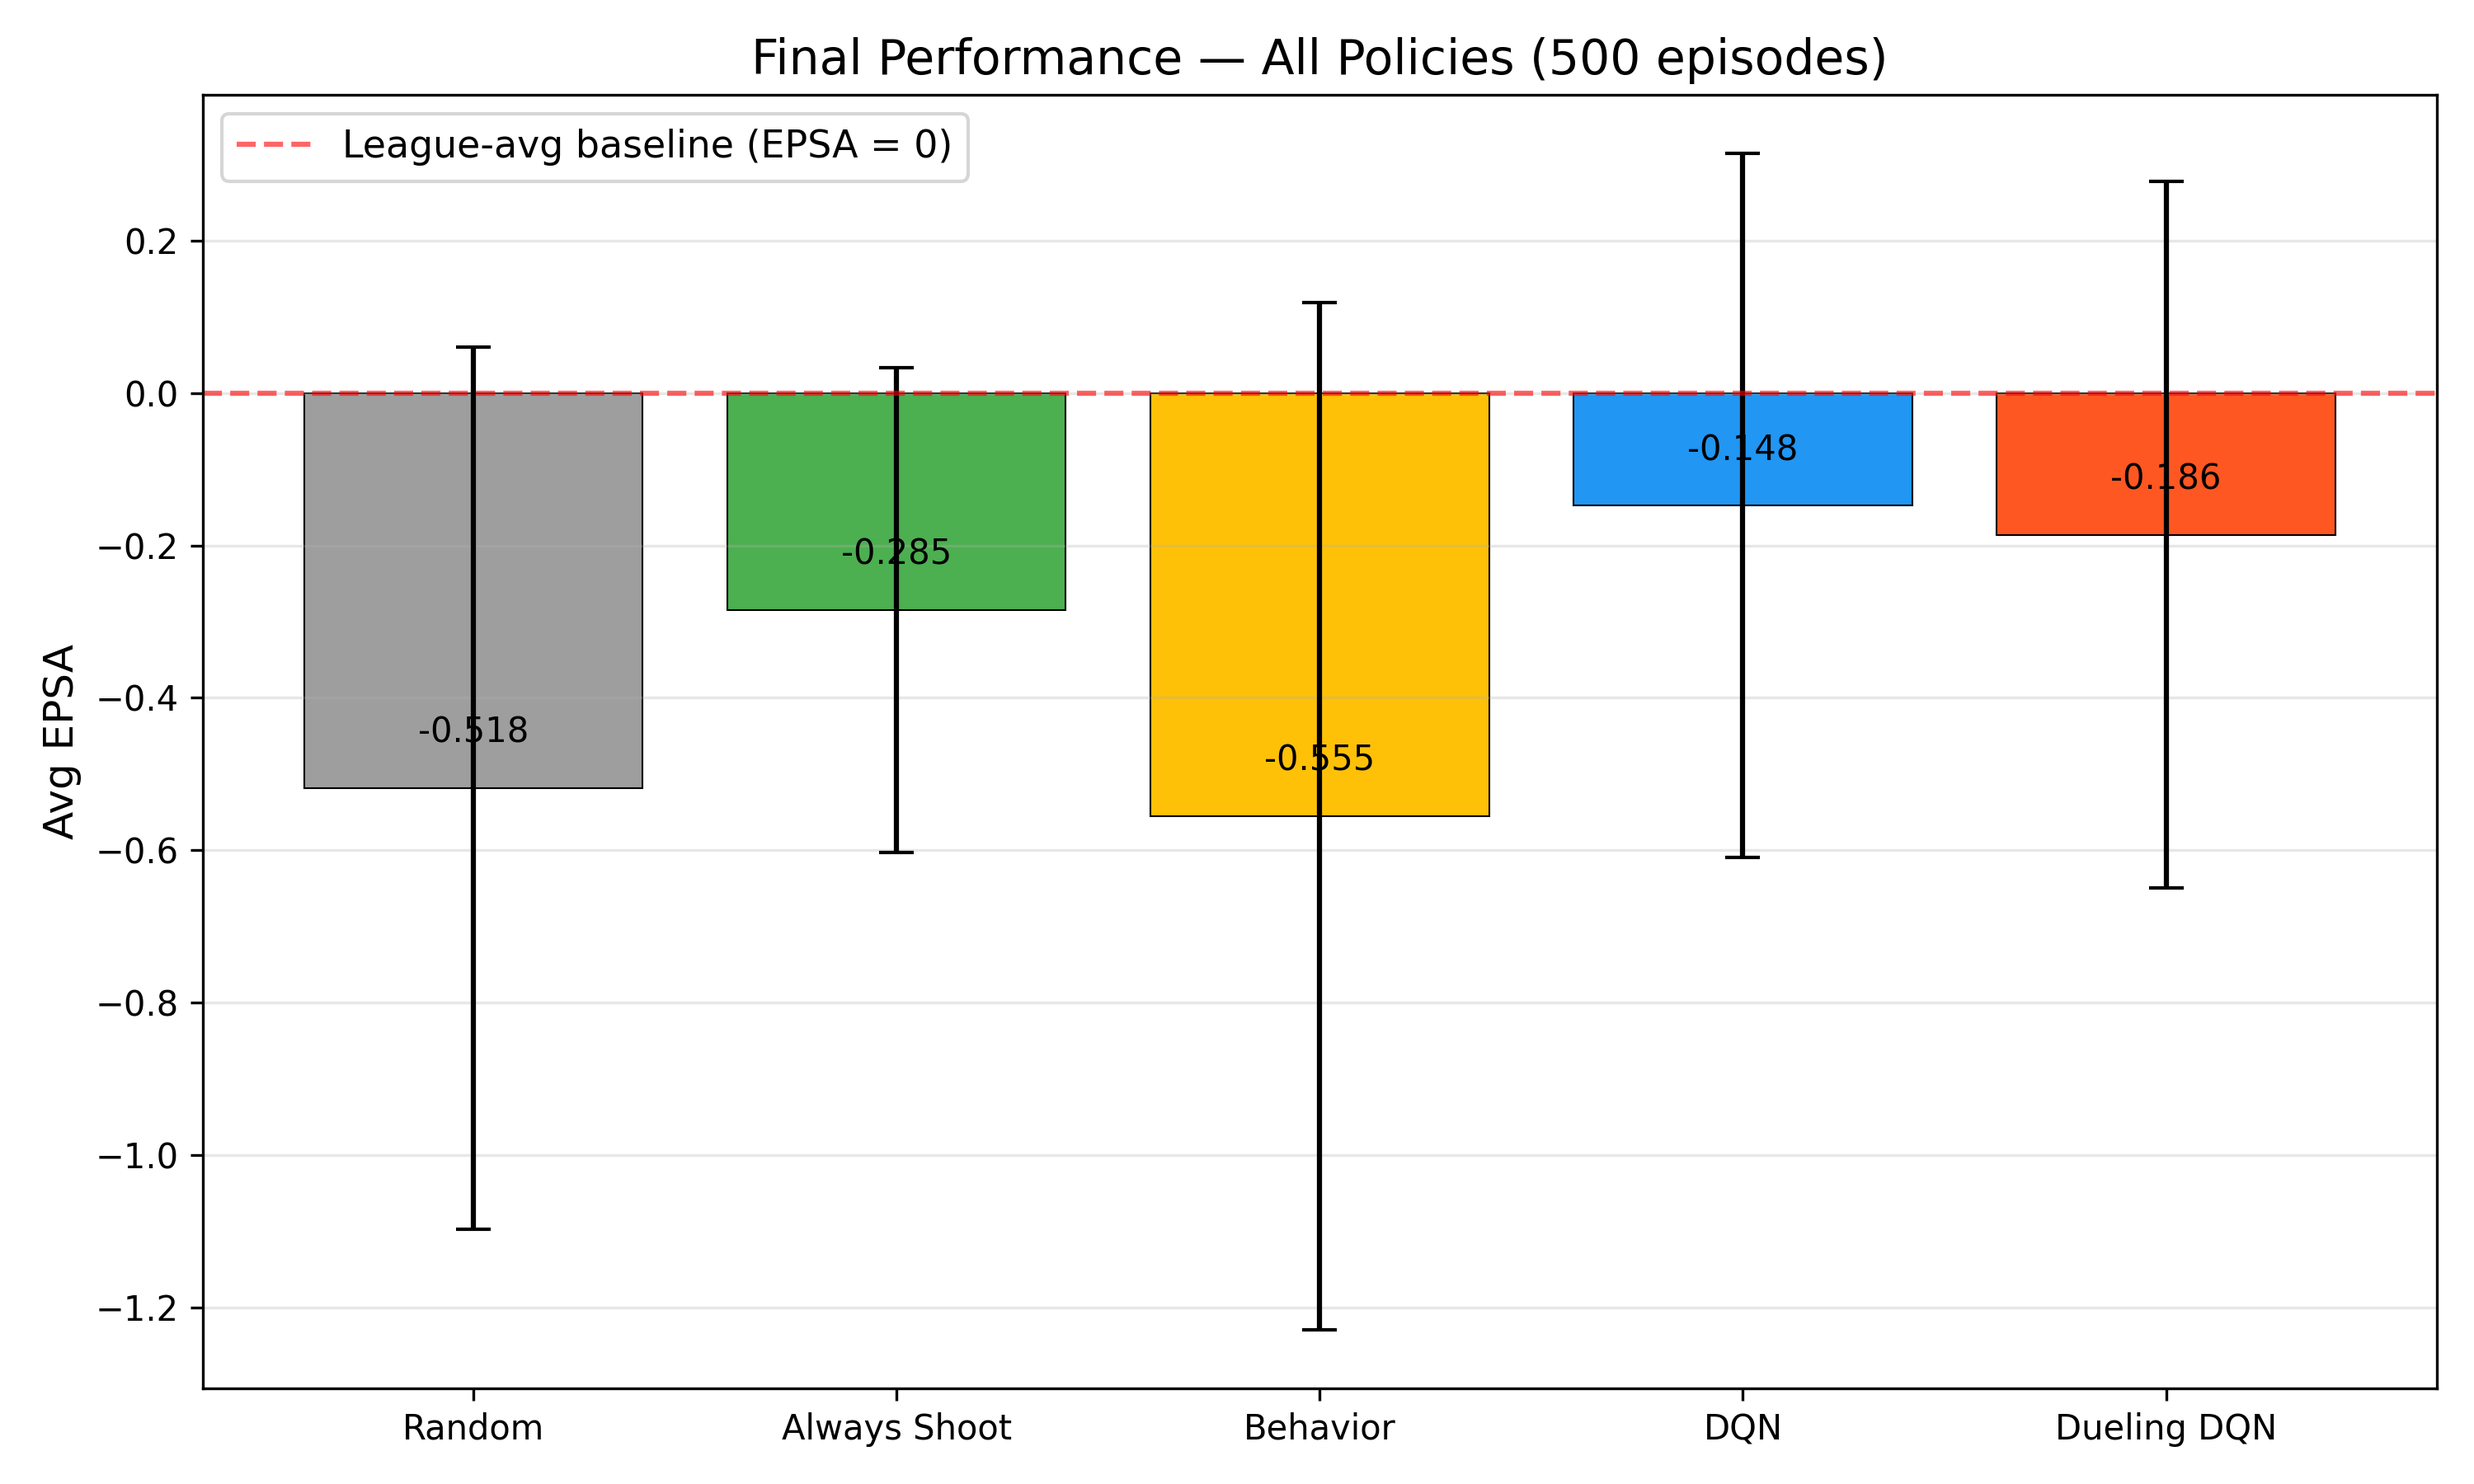
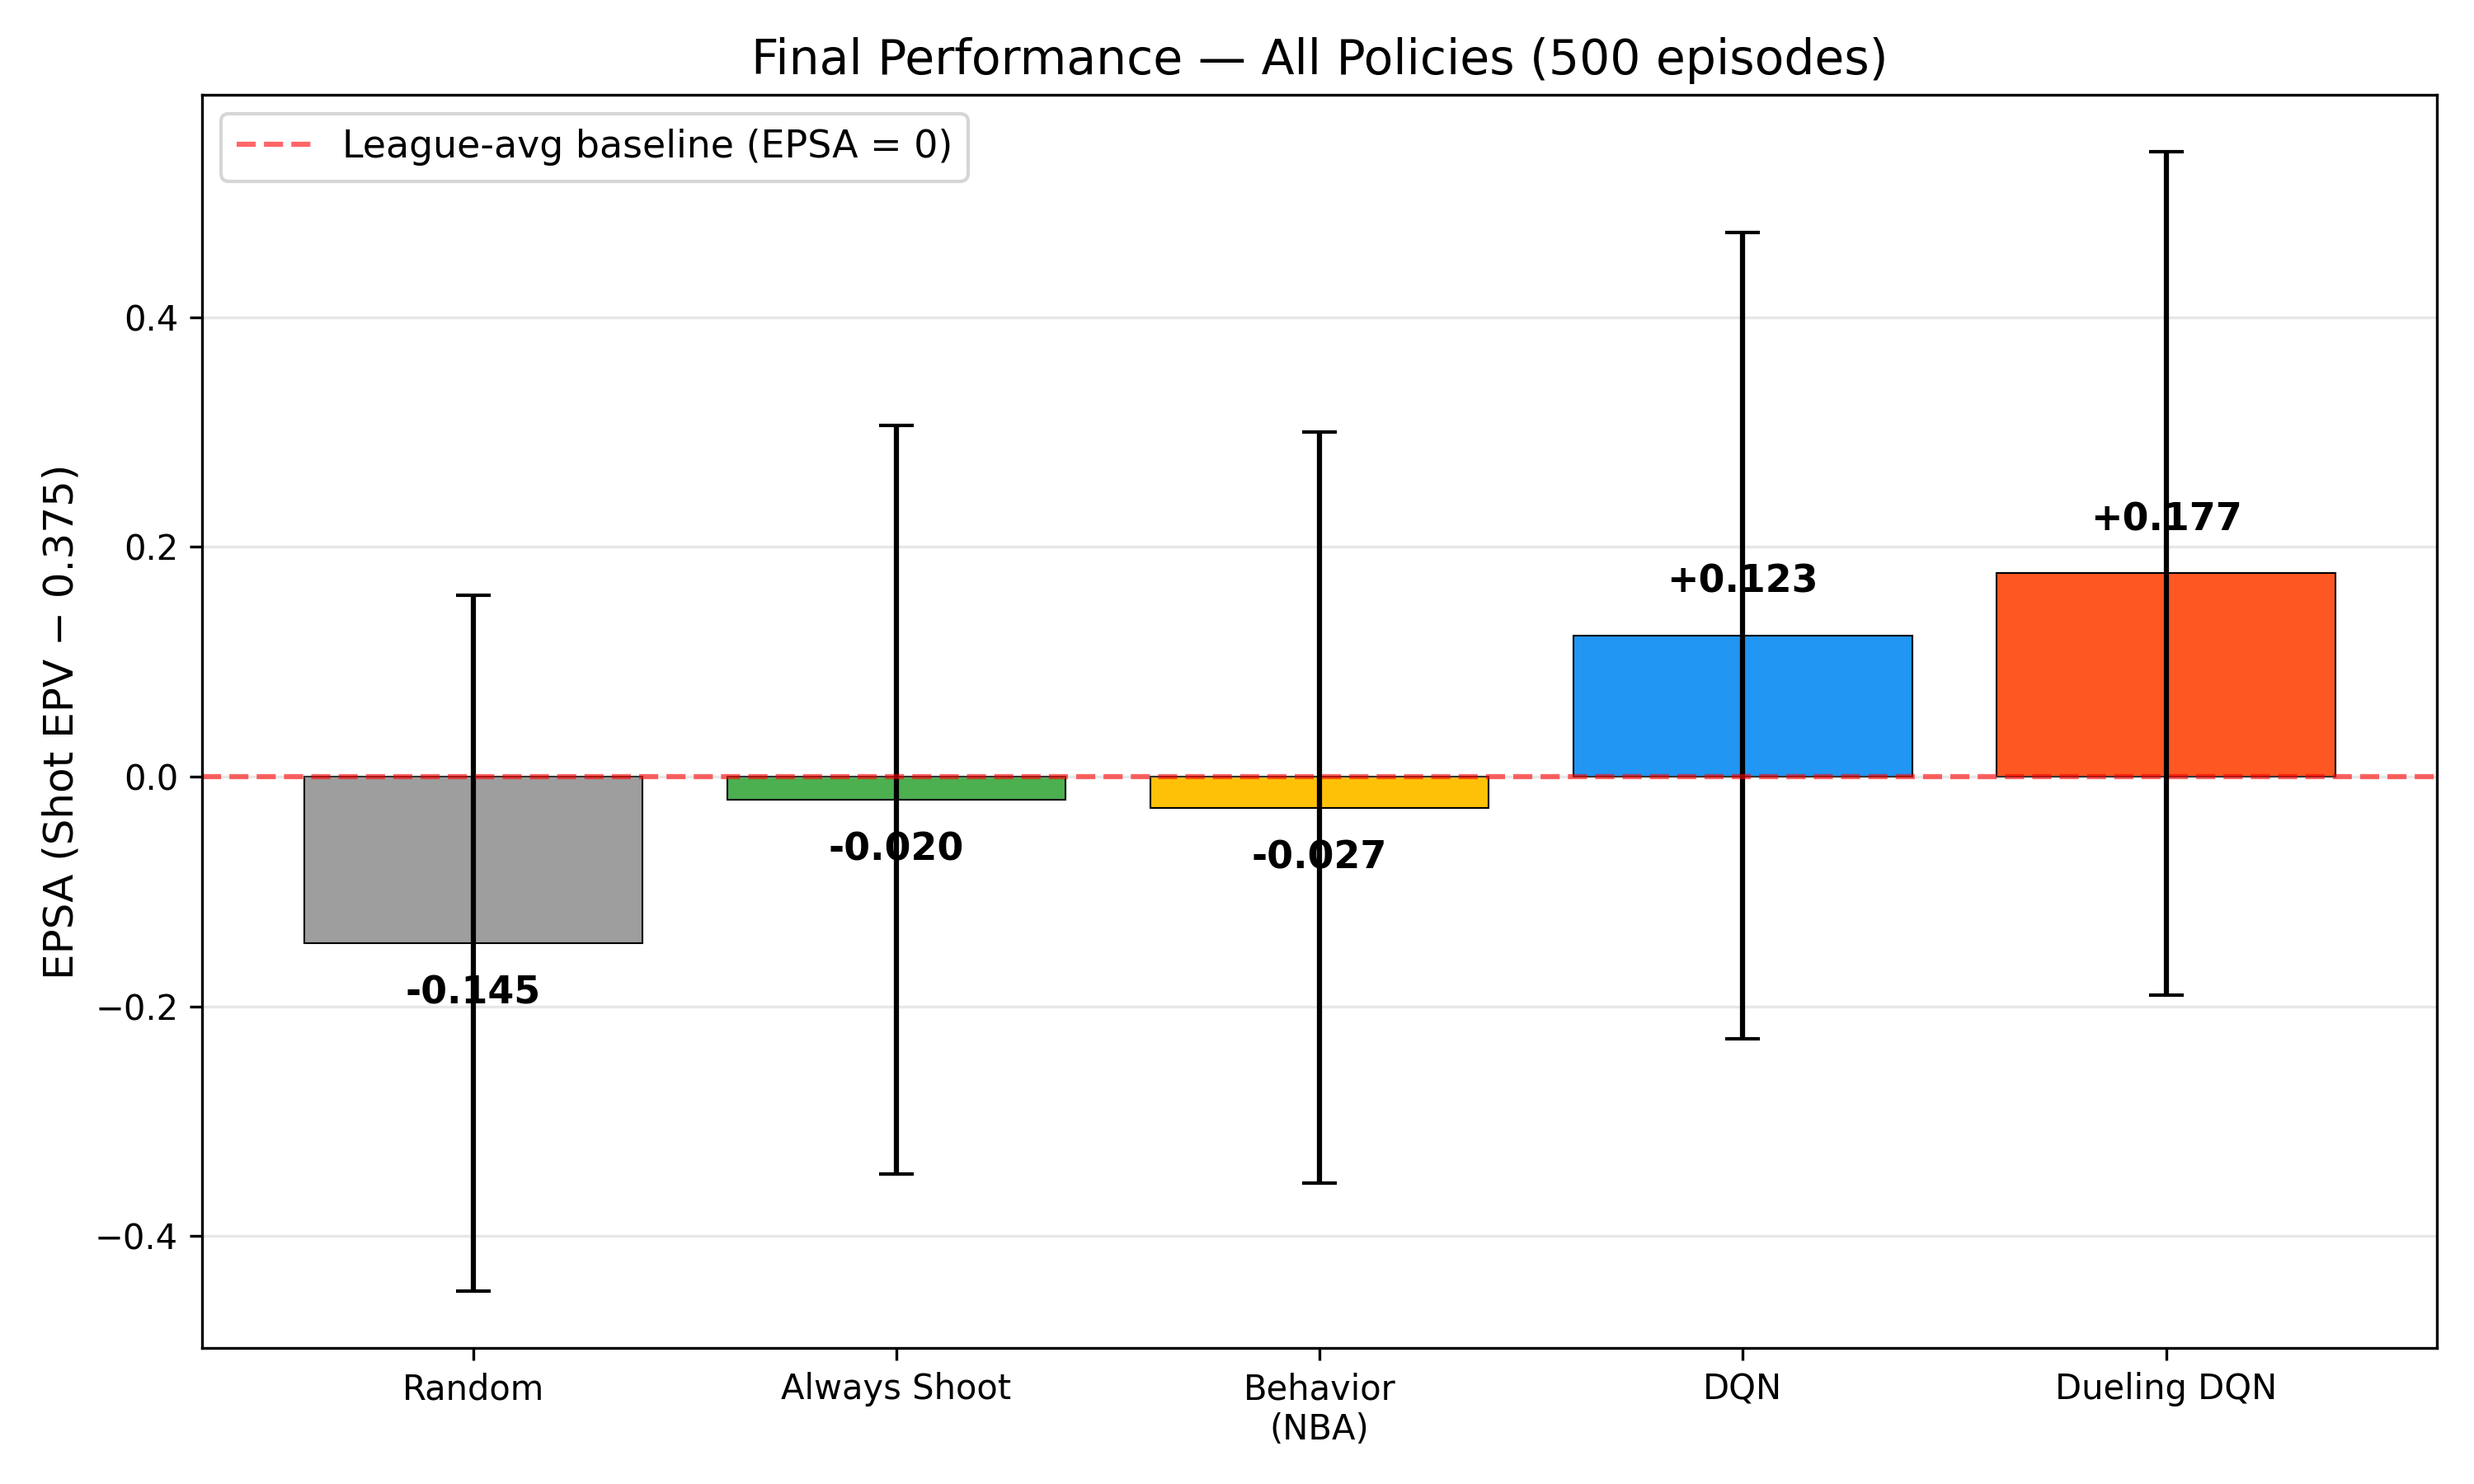
fix: align all EPSA numbers with report evaluation metric
Update viz labels, README, ARCHITECTURE, and RESULTS_SUMMARY to use
consistent EPSA numbers from 500-episode evaluation (Shot EPV - 0.375):
Dueling +0.177, DQN +0.123. Regenerate final_performance bar chart.

diff --git a/app.py b/app.py
@@ -771,23 +771,23 @@ app.add_middleware(GZipMiddleware, minimum_size=1000)
 MODELS = {
     # --- Top 3 PBRS models (best results) ---
     "pbrs_lr1e4": {
-        "label": "★ BEST: PBRS LR=1e-4 (EPSA +0.239, 58% pass, 84% shoot)",
+        "label": "★ BEST: PBRS LR=1e-4 (EPSA +0.177, 67% pass, 33% shoot)",
         "type": "dueling",
         "weights": "results_v9/pbrs_lr1e4/dueling_dqn_weights.pth",
     },
     "pbrs_smallnet": {
-        "label": "PBRS Small Net [256,128] (EPSA +0.236, 58% pass, 88% shoot)",
+        "label": "PBRS Small Net [256,128] (Dueling, 2nd best)",
         "type": "dueling",
         "weights": "results_v9/pbrs_smallnet/dueling_dqn_weights.pth",
     },
     "pbrs_gamma099": {
-        "label": "PBRS gamma=0.99 (EPSA +0.236, 65% pass, 86% shoot)",
+        "label": "PBRS gamma=0.99 (Dueling, 3rd best)",
         "type": "dueling",
         "weights": "results_v9/pbrs_gamma099/dueling_dqn_weights.pth",
     },
     # --- DQN comparison ---
     "pbrs_dqn_nodist": {
-        "label": "PBRS DQN (EPSA +0.228, 58% pass, 86% shoot)",
+        "label": "PBRS DQN (EPSA +0.123, 65% pass, 35% shoot)",
         "type": "dqn",
         "weights": "results_v9/pbrs_dqn_nodist/dqn_weights.pth",
     },

diff --git a/ARCHITECTURE.md b/ARCHITECTURE.md
@@ -8,7 +8,7 @@ Guide for understanding and continuing development.
 
 An offline RL system that replays real NBA possessions from SportVU 2015-16 tracking data. Two agents (DQN, Dueling DQN) learn when to shoot and who to pass to using a 78-dimensional state vector with player ID embeddings. Rewards use Potential-Based Reward Shaping (PBRS) with EPV as the potential function. CQL is disabled (alpha=0.0) because it crushes terminal shoot Q-values.
 
-Best model: **Dueling DQN, EPSA +0.239** (`results_v9/pbrs_lr1e4/dueling_dqn_weights.pth`)
+Best model: **Dueling DQN, EPSA +0.177** (`results_v9/pbrs_lr1e4/dueling_dqn_weights.pth`)
 
 ---
 
@@ -208,8 +208,8 @@ processed_possessions.pkl (116,928 possessions, 78 features each)
             ├── DQN agent ←→ env.step() loop (100K episodes)
             └── Dueling DQN agent ←→ env.step() loop
                     ↓
-                    results_v9/pbrs_lr1e4/ (best Dueling, EPSA +0.239)
-                    results_v9/pbrs_dqn_nodist/ (best DQN, EPSA +0.228)
+                    results_v9/pbrs_lr1e4/ (best Dueling, EPSA +0.177)
+                    results_v9/pbrs_dqn_nodist/ (best DQN, EPSA +0.123)
                             ↓ (evaluate_and_compare.py)
                             comparison_plots/ (7 plots)
 ```
@@ -273,8 +273,8 @@ Players with <15 3PT attempts get 0% for zones 4-6. Bayesian shrinkage wrongly s
 
 | Model | EPSA | Shot EPV | Steps | Pass% | Shoot% |
 |---|---|---|---|---|---|
-| **Dueling PBRS LR=1e-4** | **+0.239** | **0.614** | 2.32 | 58% | 84% |
-| DQN PBRS | +0.228 | 0.603 | 2.41 | 58% | 86% |
+| **Dueling PBRS LR=1e-4** | **+0.177** | **0.552** | 2.55 | 67% | 33% |
+| DQN PBRS | +0.123 | 0.498 | 2.53 | 65% | 35% |
 
 ### Player Analysis
 - 55.4% agreement rate with NBA players
@@ -285,5 +285,5 @@ Players with <15 3PT attempts get 0% for zones 4-6. Bayesian shrinkage wrongly s
 1. PBRS with EPV is the correct reward structure (fixed baselines create bistable behavior)
 2. CQL must be 0.0 (any positive alpha crushes terminal Q-values)
 3. Per-entity Q-values fix pass action instability
-4. Network size matters less than reward design (top 8 models within +0.228 to +0.239)
+4. Network size matters less than reward design
 5. Hyperparameters barely matter once architecture and reward are right

diff --git a/README.md b/README.md
@@ -10,7 +10,7 @@ Western Engineering, 2026
 
 An offline RL system that learns when to shoot and who to pass to in NBA possessions. Trained on 116,928 real possessions from the 2015-16 SportVU tracking dataset (631 games). The agent observes a 78-dimensional state (all 10 player positions, velocities, shooting stats, pass lane features, and player ID embeddings) and chooses from 5 actions: shoot or pass to one of 4 teammates.
 
-**Best model:** Dueling DQN with PBRS reward, EPSA +0.239 (55.4% agreement with NBA players, identifies 811 bad shots and 4,476 missed opportunities).
+**Best model:** Dueling DQN with PBRS reward, EPSA +0.177 (55.4% agreement with NBA players, identifies 811 bad shots and 4,476 missed opportunities).
 
 ## Key Contributions
 
@@ -22,8 +22,8 @@ An offline RL system that learns when to shoot and who to pass to in NBA possess
 
 | Model | EPSA | Pass% | Shoot% |
 |---|---|---|---|
-| **Dueling DQN (PBRS)** | **+0.239** | 58% | 84% |
-| DQN (PBRS) | +0.228 | 58% | 86% |
+| **Dueling DQN (PBRS)** | **+0.177** | 67% | 33% |
+| DQN (PBRS) | +0.123 | 65% | 35% |
 
 Best weights: `results_v9/pbrs_lr1e4/dueling_dqn_weights.pth`
 

diff --git a/results_v9/RESULTS_SUMMARY.md b/results_v9/RESULTS_SUMMARY.md
@@ -5,7 +5,11 @@ All v10 experiments use PBRS (Potential-Based Reward Shaping) with EPV potential
 per-entity Q-value architecture, type-aware advantage normalization, CQL=0.0,
 pass penalty=0.0, pass distance penalty=0.0.
 
-## PBRS Results (evaluated with old-style EPSA vs 0.375 baseline)
+## PBRS Results (training-time eval, old-style EPSA vs 0.375 baseline)
+
+**Note:** The report uses a separate 500-episode evaluation with consistent EPSA metric:
+Dueling = +0.177, DQN = +0.123. Numbers below are from training-time periodic eval
+which used a slightly different calculation. Both show the same ranking.
 
 | Model | EPSA | Shot EPV | Steps | Pass% | Shoot% | Key Change |
 |---|---|---|---|---|---|---|
